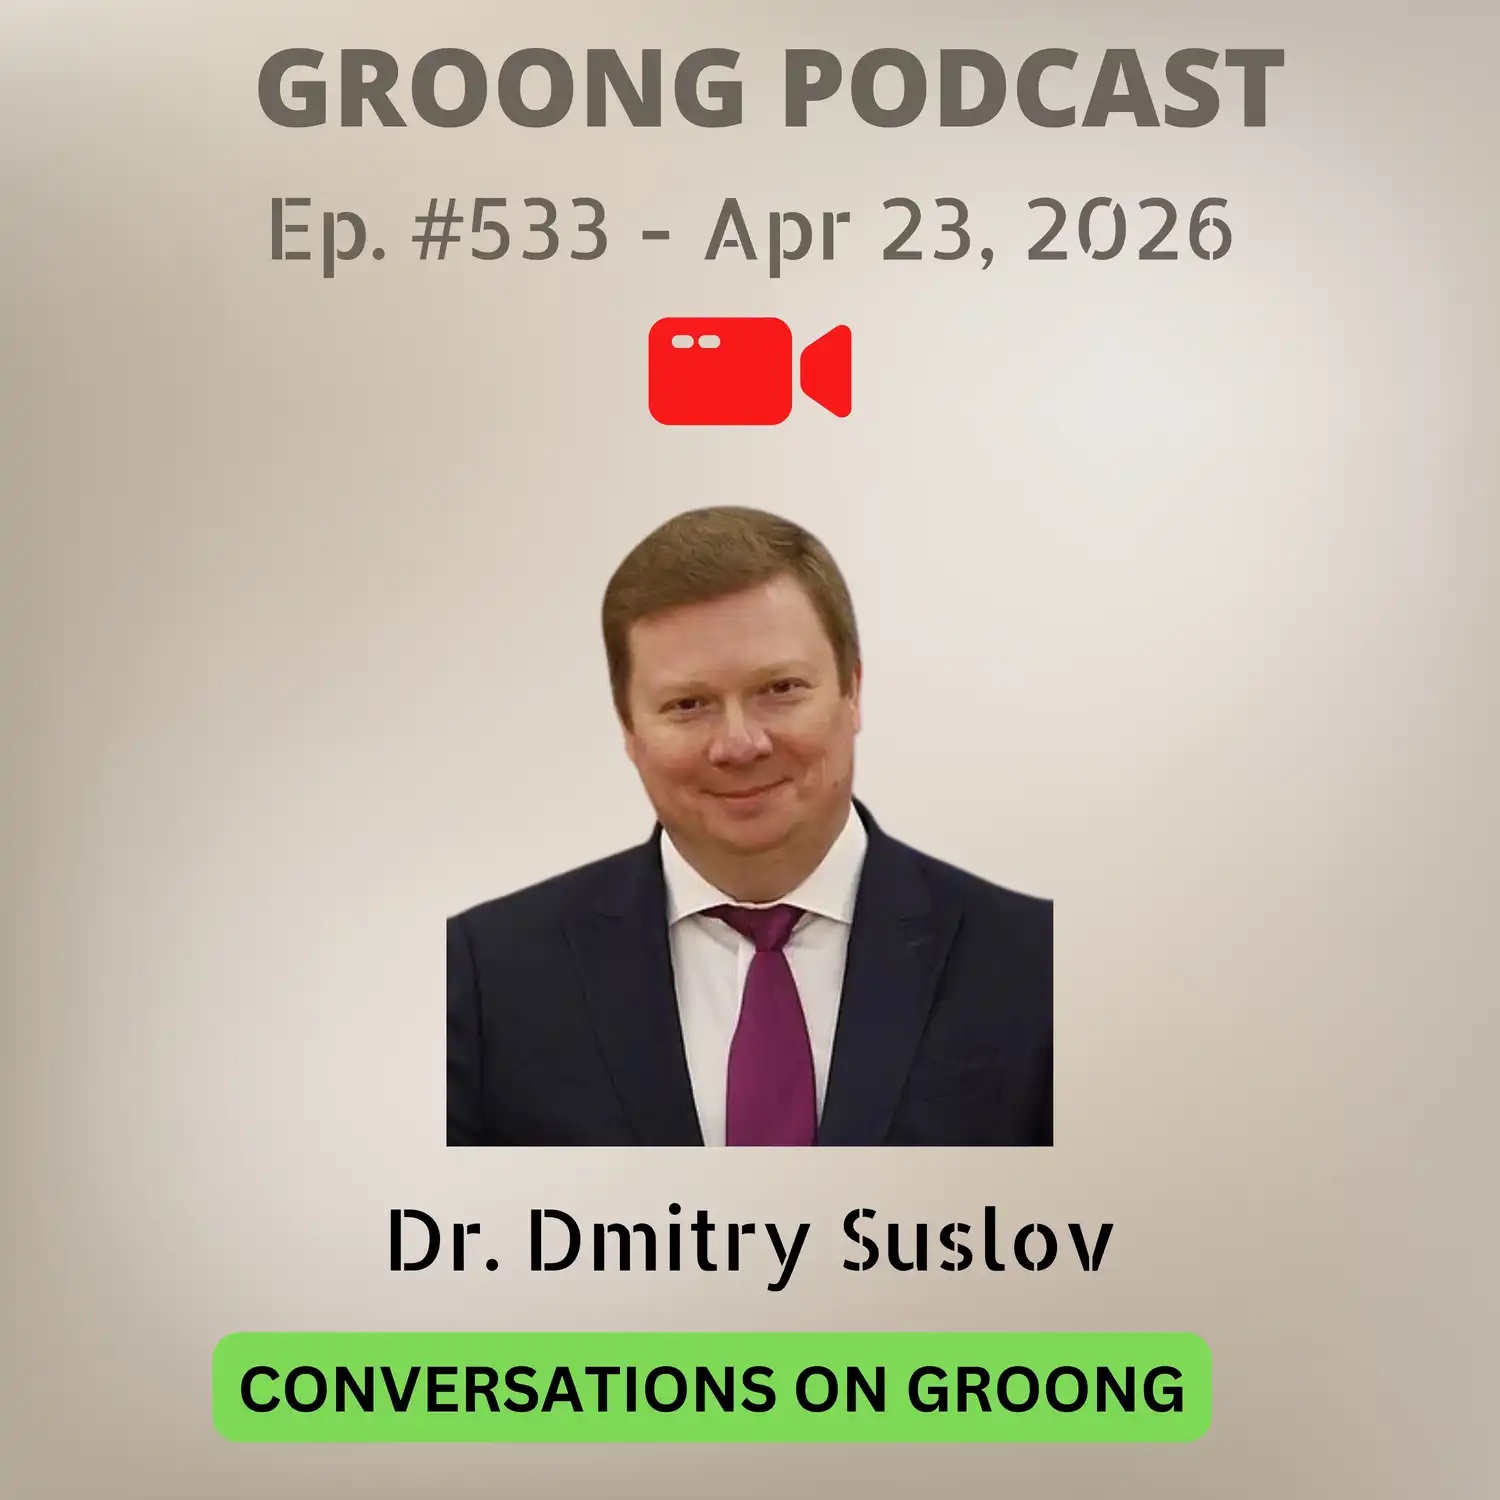
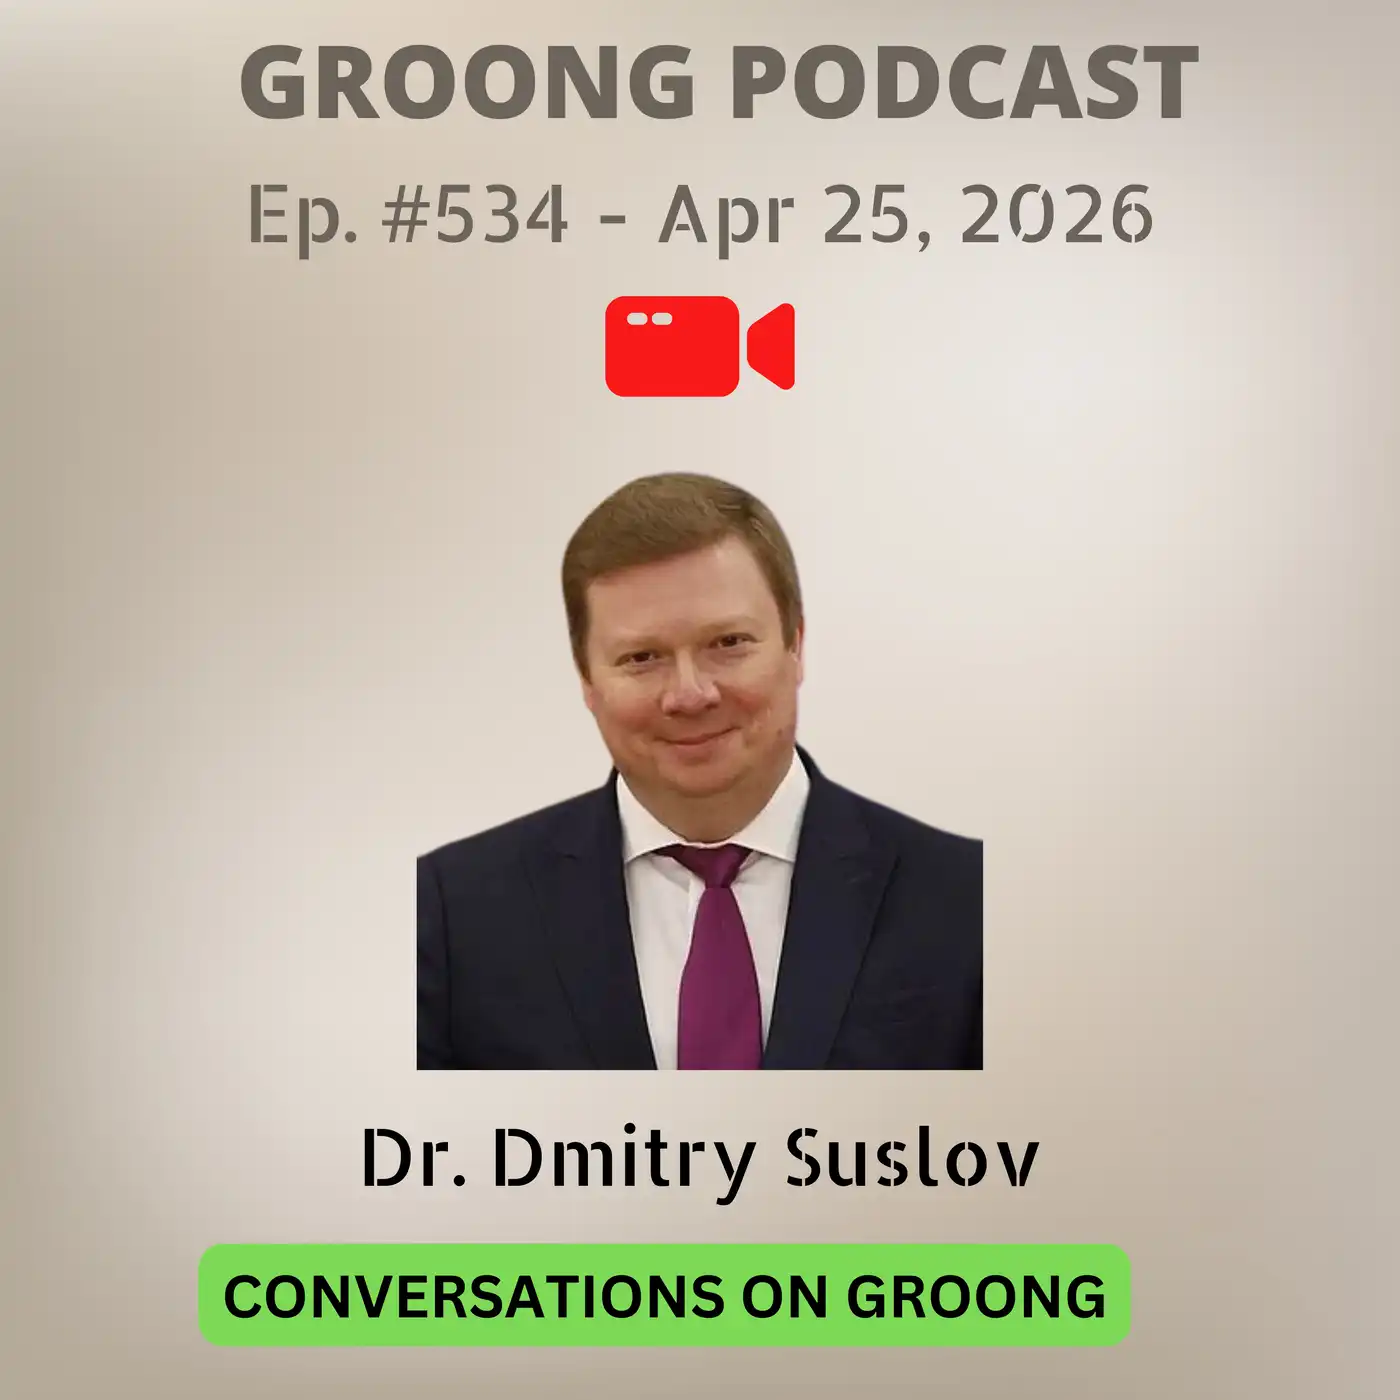
Go live EP 534 with Dmitry Suslov

diff --git a/content/episode/534-dmitry-suslov-russia-geopolitics-armenia-iran-war-ukraine-usa-trump-israel-nakhichevan-drones-uav.md b/content/episode/534-dmitry-suslov-russia-geopolitics-armenia-iran-war-ukraine-usa-trump-israel-nakhichevan-drones-uav.md
@@ -1,0 +1,84 @@
++++
+Date = 2026-04-25T00:11:00-07:00
+upcoming = false
+
+podcast_file = "19074842-dmitry-suslov-war-leverage-and-corridors-russia-s-view-from-all-fronts-ep-534-apr-25-2026.mp3"
+podcast_bytes = "50527541"
+podcast_duration = "4208"
+youtube = "kjUQN8LVuFk"
+
+episode_image = "img/episode/534/thumbnail-534.webp"
+episode_banner = "img/episode/534/banner-534.webp"
+images = ["img/episode/534/banner-534.webp"]
+
+title = "Dmitry Suslov - War, Leverage, and Corridors, Russia’s View from All Fronts | Ep 534, Apr 25, 2026"
+subtitle = "Conversations on Groong - 04/25/2026"
+
+guests = ["dsuslov"]
+hosts = ["hovik","asbed"]
+
+episode = "534"
+aliases = ["/534"]
+
+series = ["cog"]
+categories = ["Geopolitics", "Iran", "World","Economy", "Armenia"]
+explicit = "no" # values are "yes" or "no"
+tags = ["Warwick Powell", "Iran", "Iran War", "Geopolitics", "World Economy", "BRICS", "Global South", "Dollar", "Dollarization", "Dedollarization", "USA", "Donald Trump", "China", "Russia", "Thermodynamics", "ThermoEconomics", "AI", "Artificial Intelligence", "Data Centers", "negentropic", "EROI", "Shale Oil", "Fracking", "Social Entropy", "Digital Westphalia", "Copper", "TENGS", "Currency Multipolarity", "Renminbi", "SWIFT", "CIPS", "Energy Sovereignty", "Information Sovereignty", "SCO", "SCO Development Bank", "Shanghai Cooperation Organization", "Armenia", "TRIPP", "Hormuz"]
+
+Description = """
+
+#### Groong Links:
+* [GIVE to GROONG](https://podcasts.groong.org/donate)
+* [linktr.ee/Groong](https://linktr.ee/groong)
+
+#### Guest:
+* [Dr. Dmitry Suslov](/guest/dsuslov)
+
+#### Topics:
+* Iran war dynamics and Russia’s role
+* Ukraine war and Europe’s militarization
+* Armenia’s pivot and Russia’s response
+* Regional power balance
+
+Episode 534 | Recorded: April 21, 2026
+"""
+
++++
+
+## Summary
+
+In this episode of the Groong podcast, we speak with Dr. Dmitry Suslov about the shifting geopolitical landscape across the Iran war, the Ukraine conflict, and the South Caucasus. We examine the fragile state of the Iran war and its impact on global trade and regional escalation, Russia’s strategic positioning, and the potential for a broader conflict involving Azerbaijan and Turkey. The discussion then turns to the Ukraine war, focusing on attrition, Europe’s growing militarization, and the prospects for a long-term Russia–Europe confrontation. Finally, we explore Russia’s policy in the South Caucasus, including Armenia’s political trajectory, tensions following Pashinyan’s Moscow visit, and the broader balance of power shaping Armenia’s future.
+
+## Main Topics Addressed
+
+- Iran war dynamics and Russia’s role  
+- Ukraine war and Europe’s militarization  
+- Armenia’s pivot and Russia’s response  
+- Corridors, connectivity, and regional power balance  
+
+## Key Questions Discussed
+
+- What is the likely trajectory of the Iran war, and who holds leverage in the current standoff?  
+- Does U.S. performance in Iran weaken its global position, including in Ukraine?  
+- Is the Ukraine war now effectively a Russia–Europe war of attrition?  
+- Can Europe sustain a long-term confrontation with Russia, and what are the risks of escalation?  
+- How does Russia view Armenia’s gradual shift toward the EU and the West?  
+- What are the possible consequences for Armenia in energy, security, and economic terms?  
+- Could a change in Armenia’s leadership alter Russia’s posture in the region?  
+- Is Russia prepared to provide security guarantees to Armenia in the face of Azerbaijani pressure?  
+- What is the future of regional connectivity, including TRIPP and the Abkhaz railway?  
+- How does Russia balance its relations with Armenia, Azerbaijan, and other regional actors?  
+- What role does Armenia play in Russia’s broader Eurasian vision?  
+
+
+
+# Wrap-up
+
+### **Don't forget to support us:**
+* [Patreon - Support Groong](https://www.patreon.com/groong)
+* [Buy Me a Coffee - Support Groong](https://www.buymeacoffee.com/groong)
+
+
+That’s our [show](https://podcasts.groong.org/)! We hope you found it useful. Please find us on [Social Media](https://linktr.ee/groong) and follow us everywhere you get your Armenian news.
+
+Thanks to **Laura Osborn** for the music on our podcasts.
